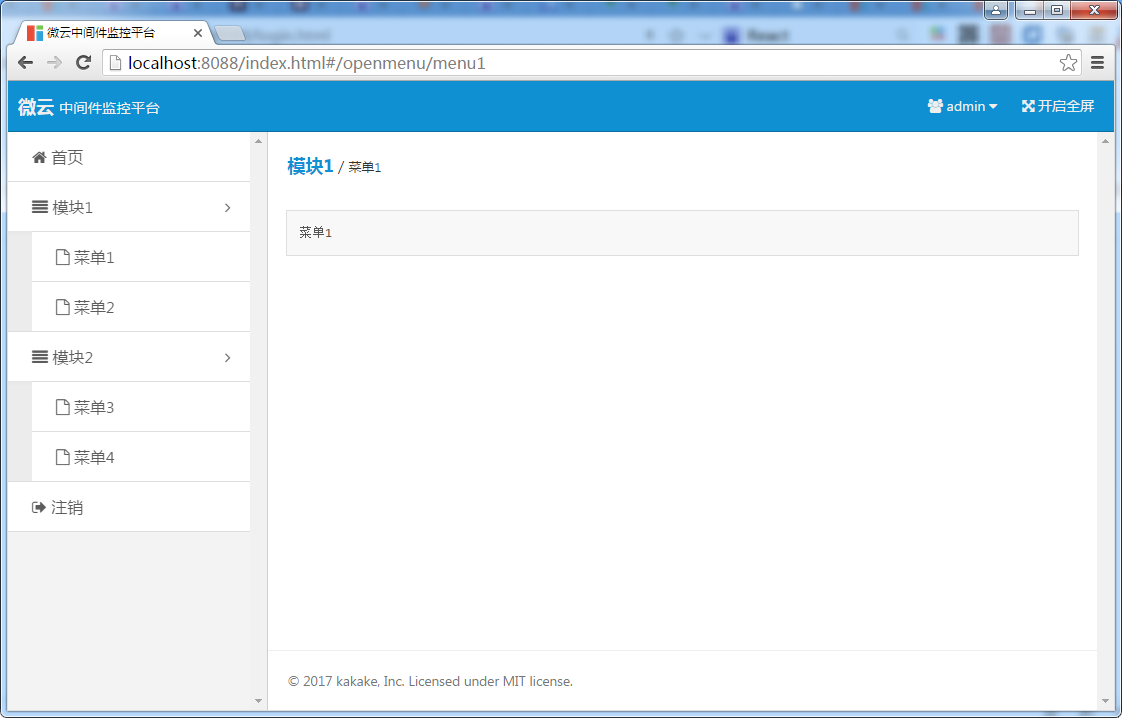
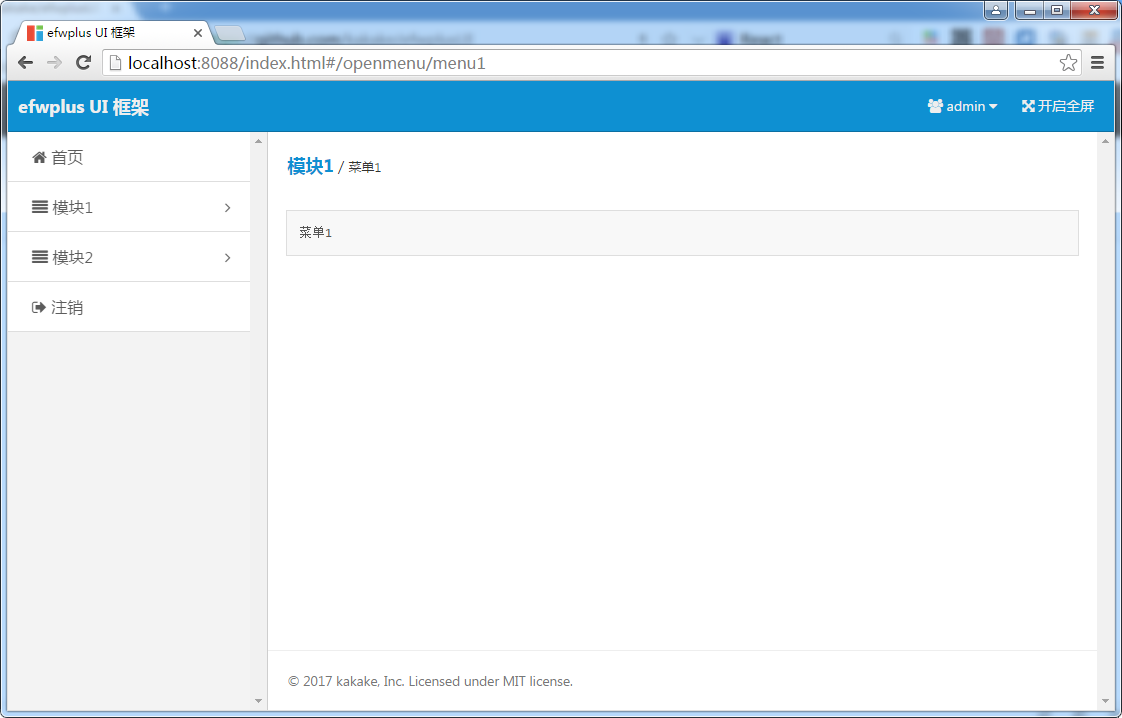
code

diff --git a/Nginx/html/index.html b/Nginx/html/index.html
@@ -3,7 +3,7 @@
 <head>
   <meta charset="utf-8">
   <meta http-equiv="X-UA-Compatible" content="IE=edge">
-  <title>微云中间件监控平台</title>
+  <title>efwplus UI 框架</title>
   <meta name="description" content="这是一个 index 页面">
   <meta name="keywords" content="index">
   <meta name="viewport" content="width=device-width, initial-scale=1">
@@ -21,7 +21,7 @@
 
 <header class="am-topbar am-topbar-inverse admin-header">
   <div class="am-topbar-brand">
-    <strong>微云</strong> <small>中间件监控平台</small>
+    <strong>efwplus UI 框架</strong> <small></small>
   </div>
 
   <button class="am-topbar-btn am-topbar-toggle am-btn am-btn-sm am-btn-success am-show-sm-only" data-am-collapse="{target: '#topbar-collapse'}"><span class="am-sr-only">导航切换</span> <span class="am-icon-bars"></span></button>
